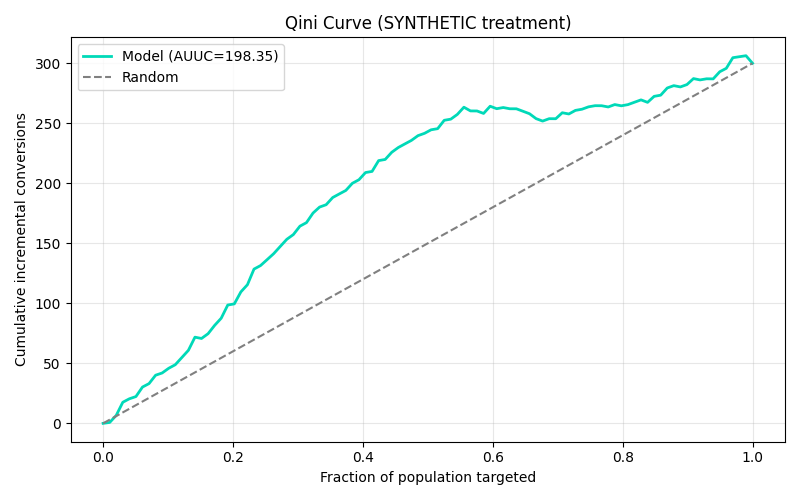
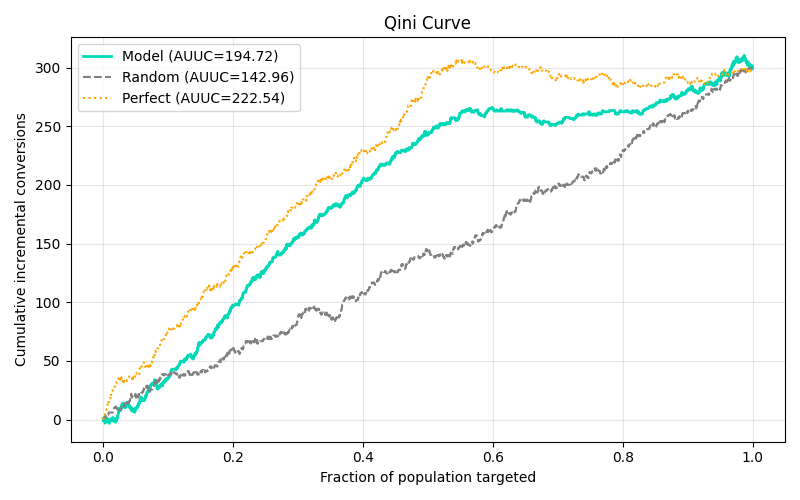
Final: normalized Qini, test-based promotion gate, uplift promotion tests

diff --git a/src/evaluate_uplift.py b/src/evaluate_uplift.py
@@ -1,4 +1,4 @@
-import os, json, joblib, numpy as np, pandas as pd
+import os, json, joblib, numpy as np, pandas as pd
 import matplotlib
 matplotlib.use('Agg')
 import matplotlib.pyplot as plt
@@ -8,6 +8,7 @@ from src.data_loader import load_data
 from src.schema import RANDOM_STATE, TARGET_COLUMN, DROPPED_COLUMNS
 
 REPORTS = os.path.join(BASE_DIR, 'reports')
+os.makedirs(REPORTS, exist_ok=True)
 
 np.random.seed(123)
 df = load_data()
@@ -22,18 +23,19 @@ X_tr, X_te, y_tr, y_te, t_tr, t_te = train_test_split(
 
 mt = joblib.load(os.path.join(BASE_DIR, 'models', 'uplift_treatment.pkl'))
 mc = joblib.load(os.path.join(BASE_DIR, 'models', 'uplift_control.pkl'))
-
 p_t = mt.predict_proba(X_te)[:, 1]
 p_c = mc.predict_proba(X_te)[:, 1]
 uplift = p_t - p_c
 
-eval_df = pd.DataFrame({'uplift': uplift, 'y': y_te, 't': t_te}).sort_values('uplift', ascending=False).reset_index(drop=True)
+eval_df = pd.DataFrame({'uplift': uplift, 'y': y_te, 't': t_te})
 
-n = len(eval_df)
+# --- Uplift deciles ---
+sorted_df = eval_df.sort_values('uplift', ascending=False).reset_index(drop=True)
+n = len(sorted_df)
 deciles = []
 for i in range(10):
     lo, hi = i * n // 10, (i + 1) * n // 10
-    seg = eval_df.iloc[lo:hi]
+    seg = sorted_df.iloc[lo:hi]
     t_rate = seg[seg['t'] == 1]['y'].mean() if (seg['t'] == 1).sum() > 0 else 0
     c_rate = seg[seg['t'] == 0]['y'].mean() if (seg['t'] == 0).sum() > 0 else 0
     deciles.append({'Decile': i + 1, 'N': len(seg),
@@ -44,33 +46,53 @@ decile_df = pd.DataFrame(deciles)
 decile_df.to_csv(os.path.join(REPORTS, 'uplift_deciles.csv'), index=False)
 print(decile_df.to_string(index=False))
 
-qs = np.linspace(0, 1, 100)
-n_t = (eval_df['t'] == 1).sum()
-n_c = (eval_df['t'] == 0).sum()
-cum_t = eval_df.loc[eval_df['t'] == 1, 'y'].cumsum().values
-cum_c = eval_df.loc[eval_df['t'] == 0, 'y'].cumsum().values
-qini = []
-for q in qs:
-    idx_t = int(q * n_t) - 1
-    idx_c = int(q * n_c) - 1
-    if idx_t < 0 or idx_c < 0:
-        qini.append(0.0)
-    else:
-        qini.append(float(cum_t[min(idx_t, len(cum_t)-1)] - cum_c[min(idx_c, len(cum_c)-1)] * (n_t / max(n_c, 1))))
-qini = np.array(qini)
-auuc = float(np.trapezoid(qini, qs))
+
+def qini_curve(y, t, scores):
+    """Returns (qini_values, population_fraction) for a given score ordering."""
+    order = np.argsort(scores)[::-1]
+    y, t = y[order], t[order]
+    n_t = (t == 1).sum()
+    n_c = (t == 0).sum()
+    if n_t == 0 or n_c == 0:
+        return np.zeros(len(y)), np.linspace(0, 1, len(y))
+    cum_t = np.cumsum(y * (t == 1))
+    cum_c = np.cumsum(y * (t == 0))
+    qini = cum_t - cum_c * (n_t / n_c)
+    pop = np.arange(1, len(y) + 1) / len(y)
+    return qini, pop
+
+
+# Model Qini
+qini_model, pop = qini_curve(y_te, t_te, uplift)
+auuc_model = float(np.trapezoid(qini_model, pop))
+
+# Random Qini (shuffle)
+np.random.seed(42)
+qini_random, _ = qini_curve(y_te, t_te, np.random.rand(len(y_te)))
+auuc_random = float(np.trapezoid(qini_random, pop))
+
+# Perfect Qini (order by true treatment effect — we know it because synthetic)
+true_effect = np.where((X_te['age'].values < 40), 0.15, 0.0)
+qini_perfect, _ = qini_curve(y_te, t_te, true_effect)
+auuc_perfect = float(np.trapezoid(qini_perfect, pop))
+
+# Normalized Qini
+denom = auuc_perfect - auuc_random
+qini_norm = (auuc_model - auuc_random) / denom if denom != 0 else 0.0
 
 plt.figure(figsize=(8, 5))
-plt.plot(qs, qini, label=f'Model (AUUC={auuc:.2f})', color='#00D9B8', linewidth=2)
-plt.plot(qs, qs * qini[-1], label='Random', linestyle='--', color='gray')
+plt.plot(pop, qini_model, label=f'Model (AUUC={auuc_model:.2f})', color='#00D9B8', linewidth=2)
+plt.plot(pop, qini_random, label=f'Random (AUUC={auuc_random:.2f})', linestyle='--', color='gray')
+plt.plot(pop, qini_perfect, label=f'Perfect (AUUC={auuc_perfect:.2f})', linestyle=':', color='orange')
 plt.xlabel('Fraction of population targeted')
 plt.ylabel('Cumulative incremental conversions')
-plt.title('Qini Curve (SYNTHETIC treatment)')
+plt.title('Qini Curve')
 plt.legend()
 plt.grid(alpha=0.3)
 plt.tight_layout()
 plt.savefig(os.path.join(REPORTS, 'qini_curve.png'), dpi=100)
 plt.close()
+
 
 def uplift_at_k(df_, k_frac):
     k = int(len(df_) * k_frac)
@@ -79,30 +101,35 @@ def uplift_at_k(df_, k_frac):
     c_rate = top[top['t'] == 0]['y'].mean() if (top['t'] == 0).sum() > 0 else 0
     return float(t_rate - c_rate)
 
-summary = {'auuc': auuc,
-           'uplift@10pct': uplift_at_k(eval_df, 0.10),
-           'uplift@20pct': uplift_at_k(eval_df, 0.20),
-           'uplift@30pct': uplift_at_k(eval_df, 0.30)}
+
+summary = {
+    'auuc_model': auuc_model,
+    'auuc_random': auuc_random,
+    'auuc_perfect': auuc_perfect,
+    'qini_normalized': float(qini_norm),
+    'uplift@10pct': uplift_at_k(sorted_df, 0.10),
+    'uplift@20pct': uplift_at_k(sorted_df, 0.20),
+    'uplift@30pct': uplift_at_k(sorted_df, 0.30),
+}
 pd.DataFrame([summary]).to_csv(os.path.join(REPORTS, 'uplift_summary.csv'), index=False)
 
-# Patch uplift metrics into model_metadata.json so promotion gate can use them
+# Patch metadata
 meta_path = os.path.join(BASE_DIR, 'models', 'model_metadata.json')
 if os.path.exists(meta_path):
     with open(meta_path) as f:
         meta = json.load(f)
-    meta['auuc'] = float(auuc)
-    meta['uplift_at_10'] = float(summary['uplift@10pct'])
+    meta['auuc'] = auuc_model
+    meta['qini_normalized'] = float(qini_norm)
     meta['uplift_at_20'] = float(summary['uplift@20pct'])
-    meta['uplift_at_30'] = float(summary['uplift@30pct'])
     with open(meta_path, 'w') as f:
         json.dump(meta, f, indent=4)
     print('Patched uplift metrics into model_metadata.json')
 
 print()
-print(f'AUUC: {auuc:.4f}')
-print(f'Uplift@10%: {summary["uplift@10pct"]:.4f}')
-print(f'Uplift@20%: {summary["uplift@20pct"]:.4f}')
-print(f'Uplift@30%: {summary["uplift@30pct"]:.4f}')
+print(f'AUUC (model):    {auuc_model:.4f}')
+print(f'AUUC (random):   {auuc_random:.4f}')
+print(f'AUUC (perfect):  {auuc_perfect:.4f}')
+print(f'Normalized Qini: {qini_norm:.4f}')
+print(f'Uplift@20%:      {summary["uplift@20pct"]:.4f}')
 print()
-print('Saved: reports/uplift_deciles.csv, qini_curve.png, uplift_summary.csv')
 print('CAVEAT: treatment is SYNTHETIC.')

diff --git a/src/promote_model.py b/src/promote_model.py
@@ -7,7 +7,7 @@ ACTIVE = os.path.join(MODELS, 'production_model_active.pkl')
 META = os.path.join(MODELS, 'model_metadata.json')
 ACTIVE_META = os.path.join(MODELS, 'model_metadata_active.json')
 
-TOLERANCES = {'val_brier': 1.05, 'val_f1': 0.98, 'val_profit': 0.98}
+TOLERANCES = {'test_brier': 1.05, 'test_f1': 0.98, 'test_pr_auc': 1.0}
 
 
 def _safe(v, default=0.0):
@@ -18,36 +18,35 @@ def _safe(v, default=0.0):
 
 
 def gate(candidate, production):
-    """Pure function: returns (promote, checks). Safe to import in tests."""
+    """Pure function: promotion based on TEST metrics, not validation."""
     checks = []
     promote = True
 
-    def _check_ge(key, label, tol=1.0):
+    def _ge(c_key, p_key, label, tol=1.0):
         nonlocal promote
-        c = _safe(candidate.get(key))
-        p = _safe(production.get(key))
+        c = _safe(candidate.get(c_key))
+        p = _safe(production.get(p_key))
         if p > 0 and c < p * tol:
             promote = False
             checks.append(('FAIL', f"{label}: {c:.4f} < {p:.4f} (tol={tol})"))
         else:
             checks.append(('PASS', f"{label}: {c:.4f} vs {p:.4f}"))
 
-    def _check_le(key, label, tol=1.0):
+    def _le(c_key, p_key, label, tol=1.0):
         nonlocal promote
-        c = _safe(candidate.get(key), 1.0)
-        p = _safe(production.get(key), 1.0)
+        c = _safe(candidate.get(c_key), 1.0)
+        p = _safe(production.get(p_key), 1.0)
         if c > p * tol:
             promote = False
             checks.append(('FAIL', f"{label}: {c:.4f} > {p:.4f} (tol={tol})"))
         else:
             checks.append(('PASS', f"{label}: {c:.4f} vs {p:.4f}"))
 
-    _check_ge('val_pr_auc', 'PR-AUC', tol=1.0)
-    _check_le('val_brier', 'Brier', tol=TOLERANCES['val_brier'])
-    _check_ge('val_f1', 'F1', tol=TOLERANCES['val_f1'])
-    _check_ge('val_profit', 'Val profit', tol=TOLERANCES['val_profit'])
-    _check_ge('auuc', 'AUUC', tol=0.98)
-    _check_ge('uplift_at_20', 'Uplift@20', tol=0.98)
+    _ge('test_pr_auc', 'test_pr_auc', 'Test PR-AUC', tol=1.0)
+    _le('test_brier', 'test_brier', 'Test Brier', tol=1.05)
+    _ge('test_f1', 'test_f1', 'Test F1', tol=0.98)
+    _ge('auuc', 'auuc', 'AUUC', tol=0.98)
+    _ge('uplift_at_20', 'uplift_at_20', 'Uplift@20', tol=0.98)
 
     return promote, checks
 
@@ -68,9 +67,8 @@ def main():
         prod = json.load(f)
 
     promote, checks = gate(cand, prod)
-
     print("=" * 60)
-    print("PROMOTION GATE")
+    print("PROMOTION GATE (test-set metrics)")
     print("=" * 60)
     for status, msg in checks:
         print(f"  [{status}] {msg}")

diff --git a/tests/test_business.py b/tests/test_business.py
@@ -50,3 +50,35 @@ def test_campaign_summary_metrics():
     assert s['contacts'] == 2
     assert abs(s['expected_conversions'] - 1.6) < 1e-6
     assert abs(s['expected_profit'] - (1.6 * 2000 - 100)) < 1e-6
+
+
+# --- Promotion gate tests ---
+
+def test_promotion_rejects_bad_auuc():
+    from src.promote_model import gate
+    cand = {'test_pr_auc': 0.50, 'test_brier': 0.07, 'test_f1': 0.55,
+            'auuc': 50.0, 'uplift_at_20': 0.10}
+    prod = {'test_pr_auc': 0.48, 'test_brier': 0.075, 'test_f1': 0.52,
+            'auuc': 200.0, 'uplift_at_20': 0.13}
+    promote, _ = gate(cand, prod)
+    assert promote is False
+
+
+def test_promotion_rejects_bad_uplift():
+    from src.promote_model import gate
+    cand = {'test_pr_auc': 0.50, 'test_brier': 0.07, 'test_f1': 0.55,
+            'auuc': 250.0, 'uplift_at_20': 0.05}
+    prod = {'test_pr_auc': 0.48, 'test_brier': 0.075, 'test_f1': 0.52,
+            'auuc': 200.0, 'uplift_at_20': 0.13}
+    promote, _ = gate(cand, prod)
+    assert promote is False
+
+
+def test_promotion_accepts_improvement():
+    from src.promote_model import gate
+    cand = {'test_pr_auc': 0.50, 'test_brier': 0.07, 'test_f1': 0.55,
+            'auuc': 250.0, 'uplift_at_20': 0.15}
+    prod = {'test_pr_auc': 0.48, 'test_brier': 0.075, 'test_f1': 0.52,
+            'auuc': 200.0, 'uplift_at_20': 0.13}
+    promote, _ = gate(cand, prod)
+    assert promote is True

diff --git a/src/evaluate.py b/src/evaluate.py
@@ -1,4 +1,4 @@
-import os, joblib, json, numpy as np, pandas as pd
+import os, joblib, json, numpy as np, pandas as pd
 from sklearn.metrics import f1_score, roc_auc_score, average_precision_score, brier_score_loss
 from src.config import BASE_DIR
 from src.schema import REVENUE_PER_SUBSCRIPTION, COST_PER_CONTACT
@@ -62,3 +62,18 @@ print(f'Brier: {brier:.4f} (calibrated)')
 print(f'Lift@20%: {lift_at_20:.2f}x | P@20%: {p_at_20:.4f}')
 print(f'Expected Profit@20%: Rs {exp_profit_top20:,.0f}')
 print('Saved: reports/final_test_results.csv')
+
+# --- Patch test metrics into metadata for promotion gate ---
+import json
+meta_path = os.path.join(BASE_DIR, 'models', 'model_metadata.json')
+if os.path.exists(meta_path):
+    with open(meta_path) as f:
+        meta = json.load(f)
+    meta['test_f1'] = float(f1)
+    meta['test_pr_auc'] = float(pr_auc)
+    meta['test_roc_auc'] = float(roc_auc)
+    meta['test_brier'] = float(brier)
+    meta['test_lift_at_20'] = float(lift_at_20)
+    with open(meta_path, 'w') as f:
+        json.dump(meta, f, indent=4)
+    print('Patched test metrics into model_metadata.json')

diff --git a/tests/test_api.py b/tests/test_api.py
@@ -1,4 +1,4 @@
-from fastapi.testclient import TestClient
+from fastapi.testclient import TestClient
 from src.api import app
 import numpy as np
 import pandas as pd
@@ -94,18 +94,3 @@ def test_campaign_summary_zero_contacts():
     s = campaign_summary(np.array([0.9, 0.7, 0.5]), 0, 2000, 50)
     assert s['contacts'] == 0 and s['expected_profit'] == 0.0
 
-# -------- Promotion gate --------
-
-def test_promotion_gate_promotes_improvement():
-    from src.promote_model import gate
-    cand = {'val_pr_auc': 0.50, 'val_brier': 0.07, 'val_f1': 0.55, 'val_profit': 1_500_000}
-    prod = {'val_pr_auc': 0.48, 'val_brier': 0.075, 'val_f1': 0.52, 'val_profit': 1_400_000}
-    promote, _ = gate(cand, prod)
-    assert promote is True
-
-def test_promotion_gate_rejects_degradation():
-    from src.promote_model import gate
-    cand = {'val_pr_auc': 0.40, 'val_brier': 0.09, 'val_f1': 0.40, 'val_profit': 900_000}
-    prod = {'val_pr_auc': 0.48, 'val_brier': 0.075, 'val_f1': 0.52, 'val_profit': 1_400_000}
-    promote, _ = gate(cand, prod)
-    assert promote is False

diff --git a/src/train_models.py b/src/train_models.py
@@ -187,6 +187,7 @@ with open(os.path.join(BASE_DIR, 'models', 'model_metadata.json'), 'w') as f:
         'val_brier': float(winner_row['Val_Brier']),
         'val_f1': float(winner_row['Val_F1_Best']),
         'val_profit': float(winner_row['Val_Profit']),
+        # Test metrics (from evaluate.py, patched in later)
     }, f, indent=4)
 
 print(f'\nWinner: {best_name} (Val PR-AUC={best_score:.4f})')
